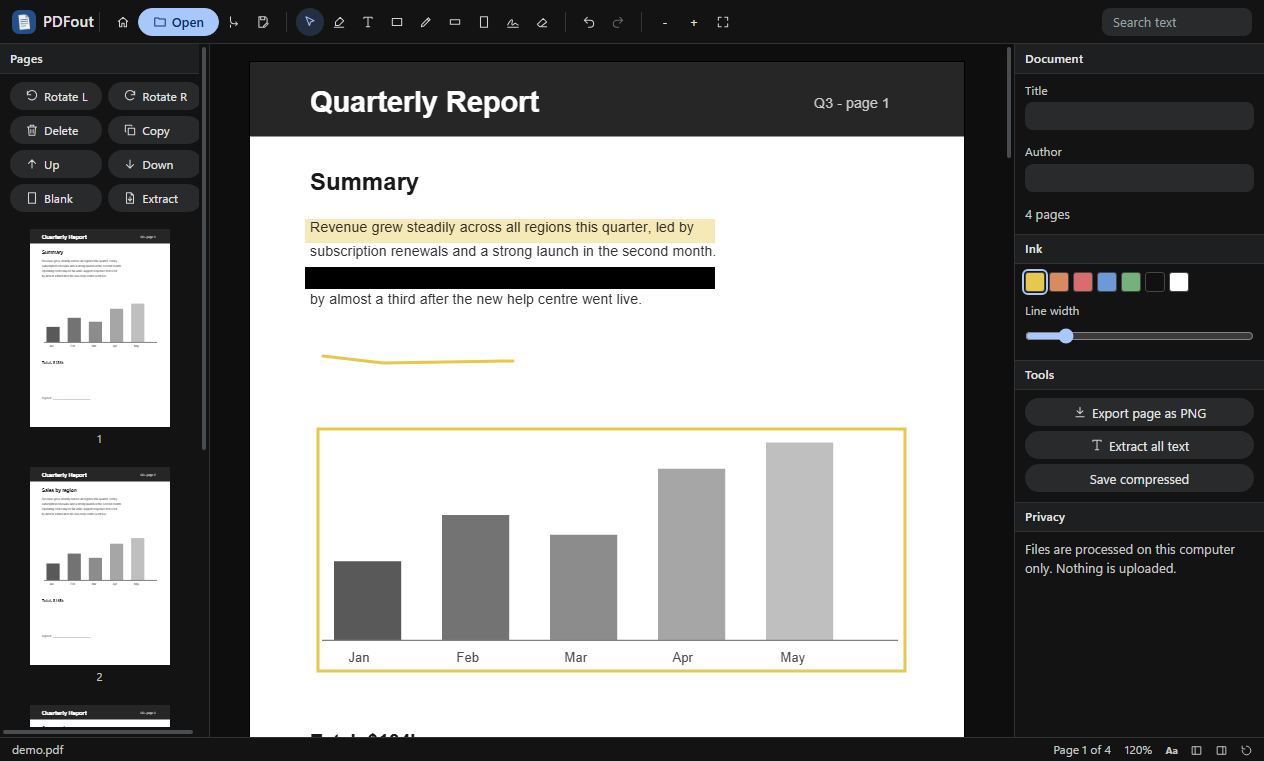
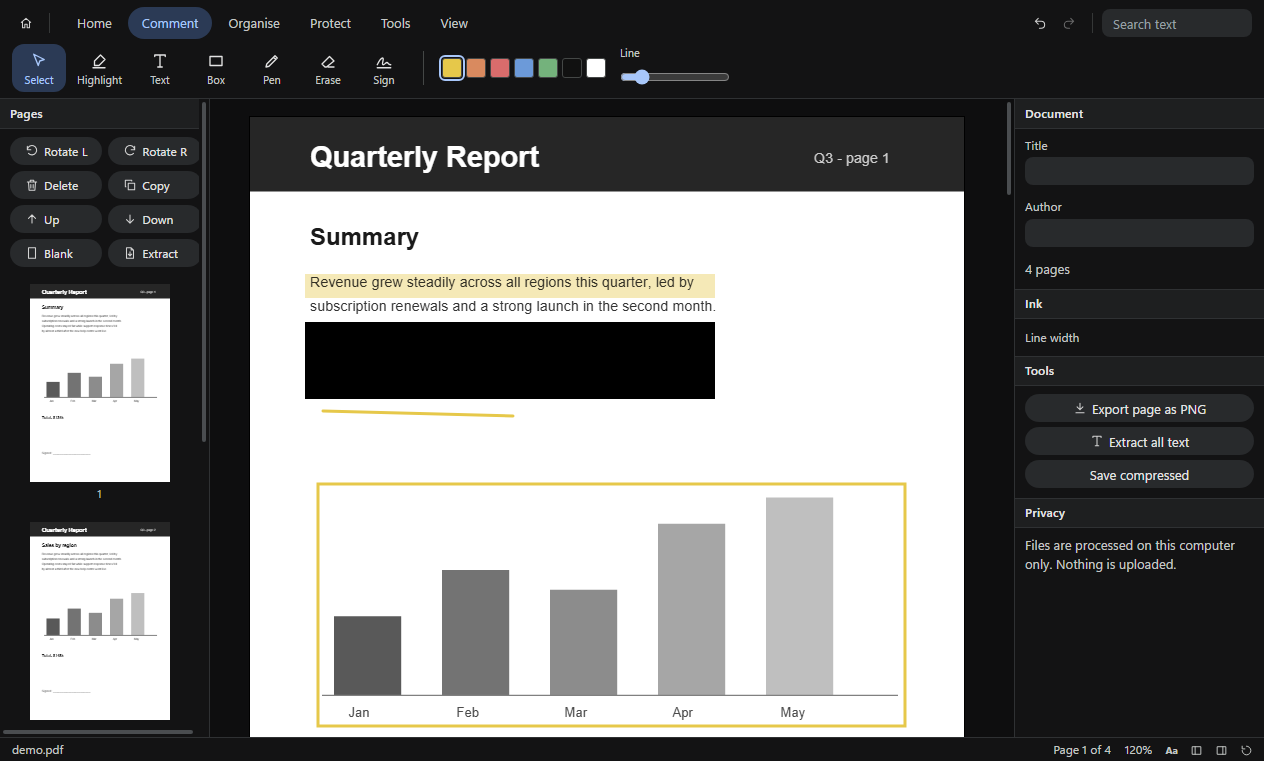
docs: PDFout screenshots with ribbon and home screen

diff --git a/README.md b/README.md
@@ -92,7 +92,11 @@ Install, open, update and remove all ten apps from one window. **[Download the l
 - **Sign:** Draw your signature with a mouse, pen or touch screen and place it anywhere on a page; Resize the signature to fit the line
 
 <details>
-<summary><b>All 5 screenshots</b></summary>
+<summary><b>All 6 screenshots</b></summary>
+
+**The home screen.** PDFout opens on a start screen with quick tools, your recent files and a starred tab.
+
+<img src="assets/shots/pdfout/00-home.png" alt="The home screen" width="100%">
 
 **Reading a PDF.** Pages open in a continuous view with a thumbnail strip on the left and document details on the right. Zoom in and out, fit the page to the window, or search for words across the whole document.
 
@@ -826,7 +830,7 @@ Install, open, update and remove all ten apps from one window. **[Download the l
 
 Every Lookout app follows the same design, so learning one teaches you the rest.
 
-- **Top bar** for files and tools, with a line icon on every button. On smaller windows, less important buttons shrink to icons; hover to see their names.
+- **Top bar** for files and tools, with a line icon on every button. (PDFout groups its tools into ribbon tabs: Home, Comment, Organise, Protect, Tools and View.) On smaller windows, less important buttons shrink to icons; hover to see their names.
 - **Left panel** for what you work with (pages, shapes, layers, media). **Right panel** for the settings of what is selected.
 - **Status bar** at the bottom with counts, length, zoom or progress.
 - **Shortcuts in common:** Ctrl + Z / Ctrl + Y undo and redo, Ctrl + S saves, Ctrl + O opens, Delete removes the selection, Space plays media or pans a canvas, Ctrl + mouse wheel zooms.
